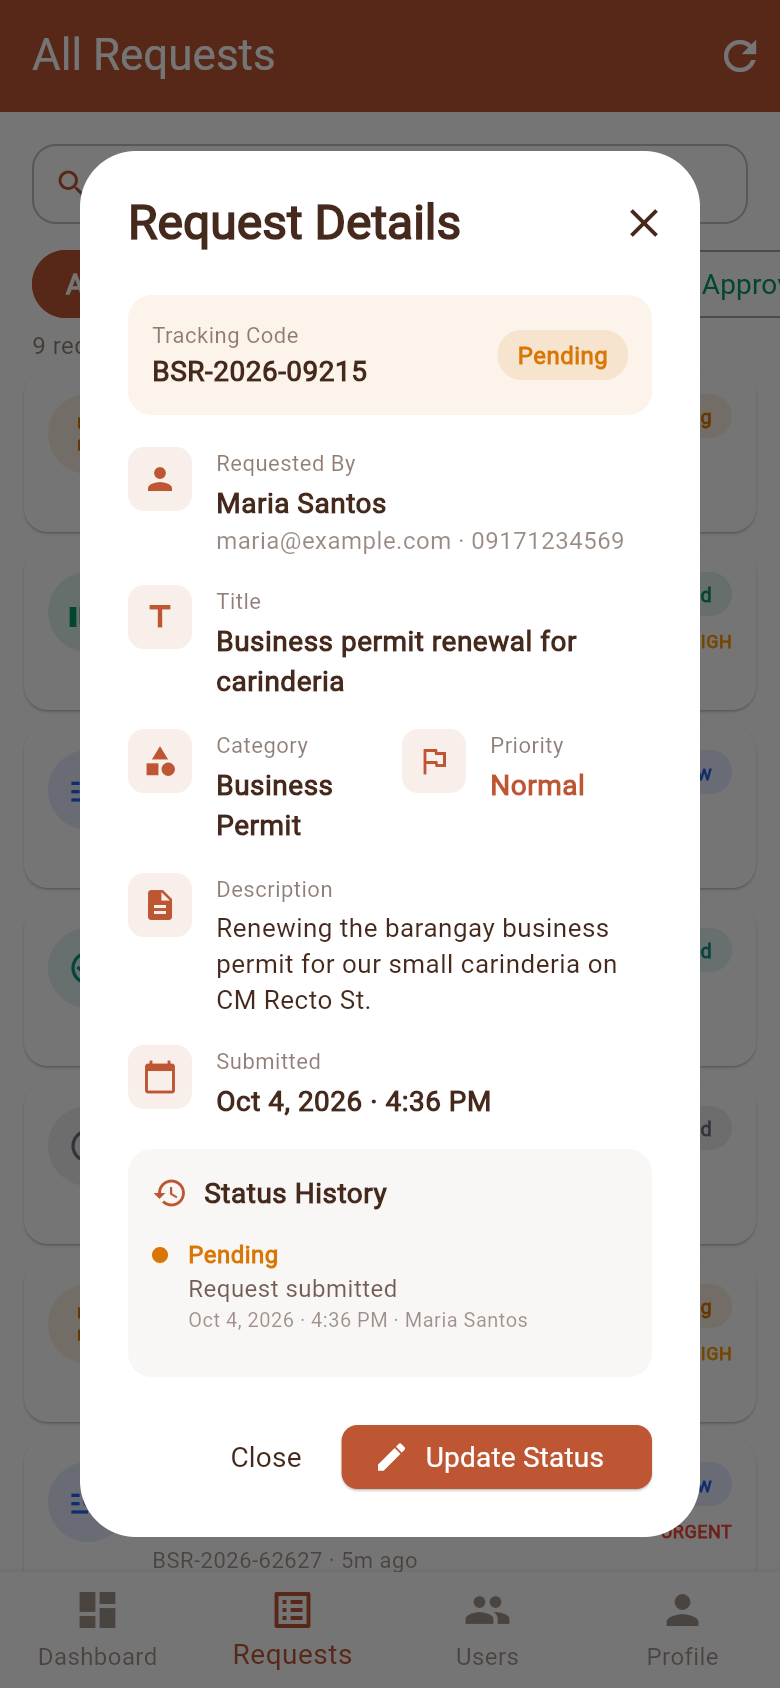
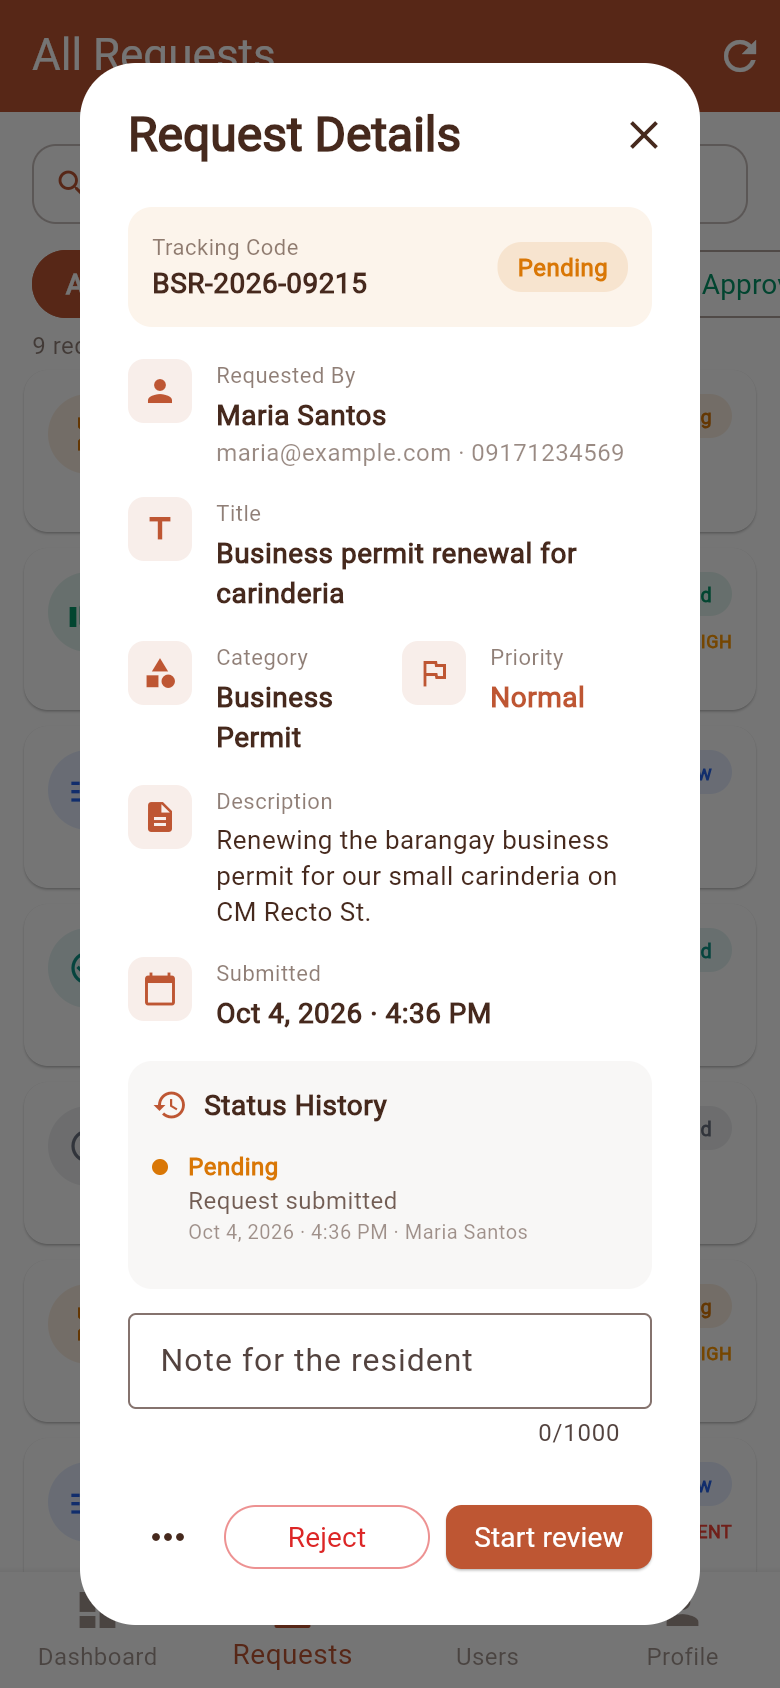
Document the quicker request flows and retake their screenshots

diff --git a/README.md b/README.md
@@ -43,7 +43,7 @@ The app talks to the [Laravel API backend](https://github.com/nncast/laravel-bar
 
 **Residents**
 - Register and log in
-- Submit a request: pick a service, add a title, description and priority
+- Submit a request: pick a service (straight from its tile on the dashboard), describe it and set a priority; the title is optional and defaults to the service name
 - Track each request through **Pending → In Review → Approved → Processing → Completed** (or Rejected), with staff remarks and a dated status history
 - Cancel a request while it is still pending
 - Notifications whenever staff update a request; tap one to open the request
@@ -51,7 +51,7 @@ The app talks to the [Laravel API backend](https://github.com/nncast/laravel-bar
 **Staff and admins**
 - Dashboard with counts for every status, plus today / this week / this month
 - All requests with search and status filters
-- Update a request's status and leave remarks for the resident
+- Move a request on in one tap from its details (**Start review**, **Approve**, **Reject**, **Start processing**, **Mark completed**) with an optional note for the resident; any other status is under ⋯
 - View users (staff) or add, edit, deactivate and delete users (admin)
 
 ## Roles
